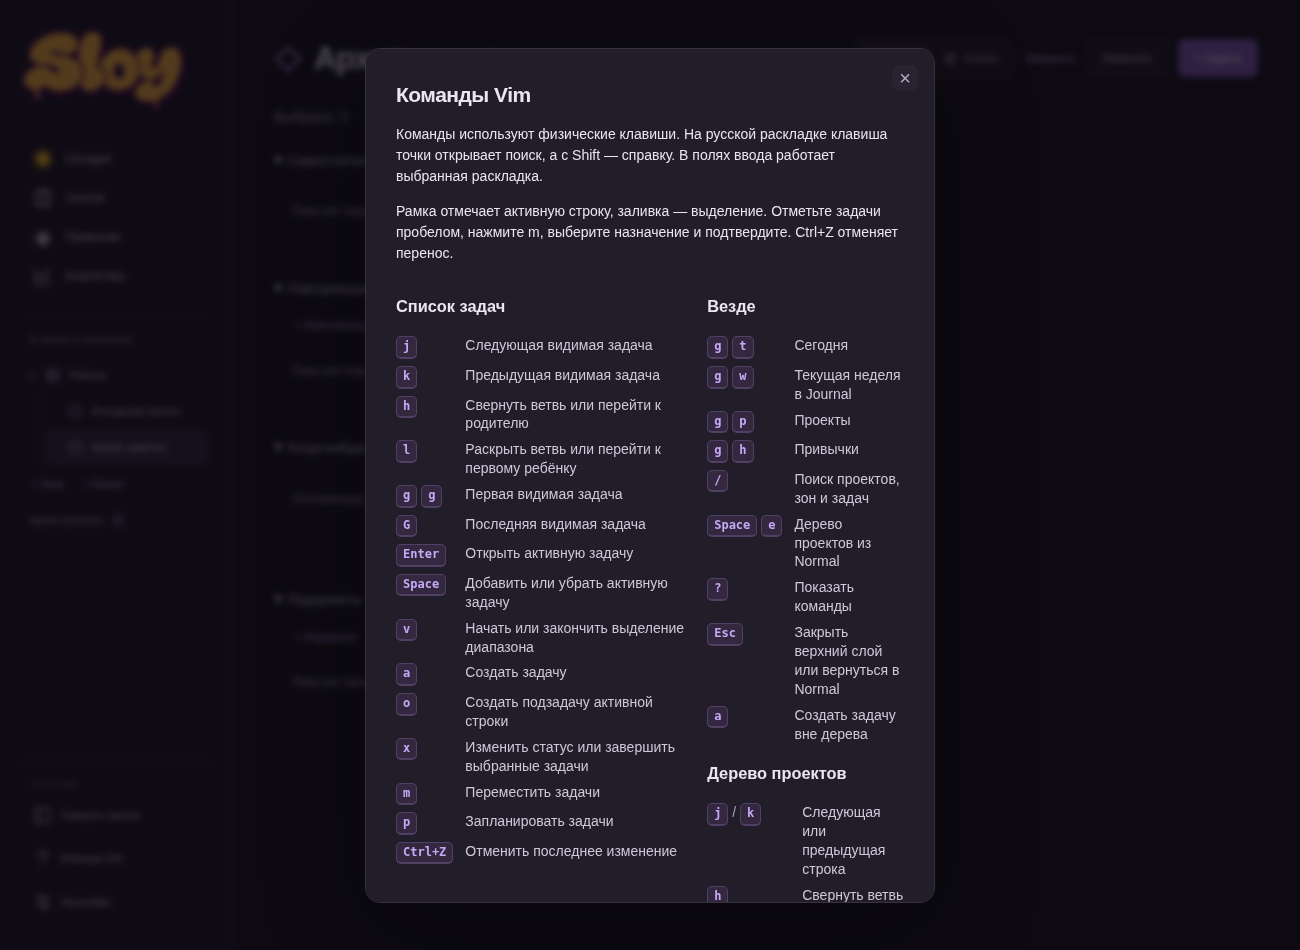
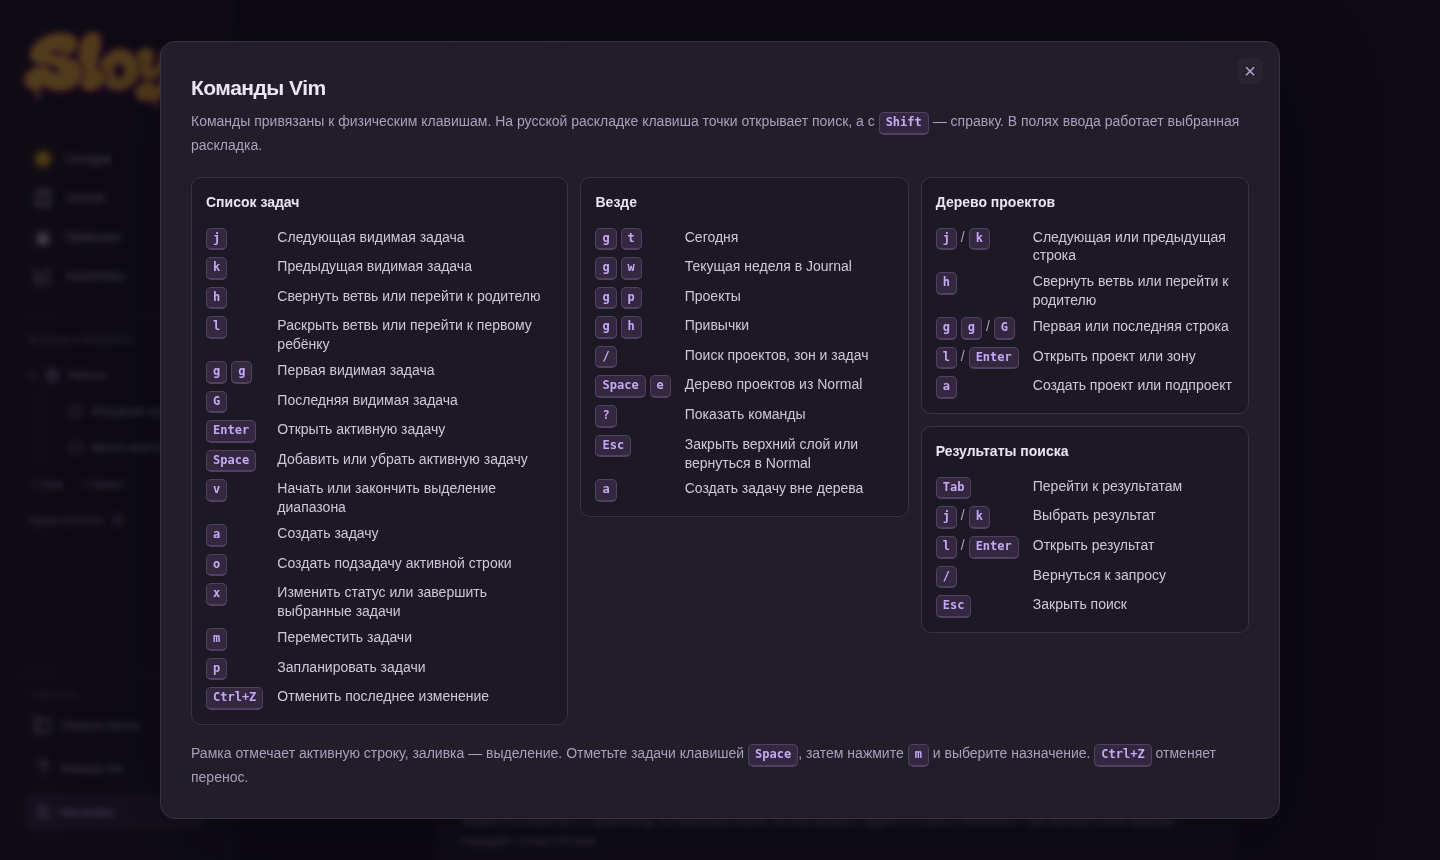
Widen Vim help and workspace search (#37)

diff --git a/dist/vim-navigation.js b/dist/vim-navigation.js
@@ -49,15 +49,14 @@ export function vimMenuKey(id){
 export function vimHelpHTML(){
  const keys=binding=>binding.split(' / ').map(sequence=>
   sequence.split(' ').map(key=>'<kbd>'+key+'</kbd>').join(' ')).join(' <span class="vim-key-separator">/</span> ');
- const section=(heading,commands)=>'<section><h3>'+heading+'</h3><dl class="vim-commands">'+
+ const section=(group,heading,commands)=>'<section class="vim-help-group vim-help-'+group+'"><h3>'+heading+'</h3><dl class="vim-commands">'+
   commands.map(([,key,label])=>'<dt>'+keys(key)+'</dt><dd>'+label+'</dd>').join('')+'</dl></section>';
- return '<div class="vim-help"><h2>Команды Vim</h2><p>Команды используют физические клавиши. На русской раскладке клавиша точки открывает поиск, а с Shift — справку. В полях ввода работает выбранная раскладка.</p>'+
-  '<p>Рамка отмечает активную строку, заливка — выделение. Отметьте задачи пробелом, нажмите m, выберите назначение и подтвердите. Ctrl+Z отменяет перенос.</p>'+
-  '<div class="vim-help-grid">'+section('Список задач',listCommands)+'<div>'+
-  section('Везде',[...destinations,['search','/','Поиск проектов, зон и задач'],['explorer','Space e','Дерево проектов из Normal'],['help','?','Показать команды'],['escape','Esc','Закрыть верхний слой или вернуться в Normal'],['add','a','Создать задачу вне дерева']])+
-  section('Дерево проектов',[['move','j / k','Следующая или предыдущая строка'],['branch','h','Свернуть ветвь или перейти к родителю'],['edges','g g / G','Первая или последняя строка'],['open','l / Enter','Открыть проект или зону'],['add','a','Создать проект или подпроект']])+
-  section('Результаты поиска',[['focus','Tab','Перейти к результатам'],['move','j / k','Выбрать результат'],['open','l / Enter','Открыть результат'],['edit','/','Вернуться к запросу'],['close','Esc','Закрыть поиск']])+'</div></div>'+
-  '<div class="modal-actions"><button type="button" class="primary-button" data-action="close-modal">Готово</button></div></div>';
+ return '<div class="vim-help"><h2>Команды Vim</h2><p class="vim-help-note">Команды привязаны к физическим клавишам. На русской раскладке клавиша точки открывает поиск, а с <kbd>Shift</kbd> — справку. В полях ввода работает выбранная раскладка.</p>'+
+  '<div class="vim-help-grid">'+section('tasks','Список задач',listCommands)+
+  section('global','Везде',[...destinations,['search','/','Поиск проектов, зон и задач'],['explorer','Space e','Дерево проектов из Normal'],['help','?','Показать команды'],['escape','Esc','Закрыть верхний слой или вернуться в Normal'],['add','a','Создать задачу вне дерева']])+
+  '<div class="vim-help-context">'+section('tree','Дерево проектов',[['move','j / k','Следующая или предыдущая строка'],['branch','h','Свернуть ветвь или перейти к родителю'],['edges','g g / G','Первая или последняя строка'],['open','l / Enter','Открыть проект или зону'],['add','a','Создать проект или подпроект']])+
+  section('search','Результаты поиска',[['focus','Tab','Перейти к результатам'],['move','j / k','Выбрать результат'],['open','l / Enter','Открыть результат'],['edit','/','Вернуться к запросу'],['close','Esc','Закрыть поиск']])+'</div></div>'+
+  '<p class="vim-help-note vim-help-example">Рамка отмечает активную строку, заливка — выделение. Отметьте задачи клавишей <kbd>Space</kbd>, затем нажмите <kbd>m</kbd> и выберите назначение. <kbd>Ctrl+Z</kbd> отменяет перенос.</p></div>';
 }
 
 export function vimKey(event,prefix=''){

diff --git a/dist/vim-navigation.css b/dist/vim-navigation.css
@@ -24,13 +24,13 @@
  pointer-events:none;font-size:.85rem;
 }
 .vim-commands {
- display:grid;grid-template-columns:max-content 1fr;gap:6px 12px;align-items:baseline;
- margin:10px 0 18px;
+ display:grid;grid-template-columns:max-content minmax(0,1fr);gap:6px 14px;align-items:baseline;
+ margin:0;
 }
 .vim-commands dd {
  margin:0;
 }
-.vim-commands kbd,.task-context-menu kbd {
+.task-context-menu kbd {
  padding:2px 5px;border:1px solid var(--line);border-radius:4px;
  background:var(--field);color:var(--accent-text);white-space:nowrap;
 }
@@ -54,14 +54,47 @@
 .vim-settings-actions input[role="switch"]:checked::before {
  left:19px;background:var(--button-text);
 }
+#modal:has(.vim-help) {
+ max-height:calc(100dvh - 32px);
+ max-width:1120px;
+}
+#modal:has(.workspace-search) {
+ max-width:900px;
+}
+.vim-help h2 {
+ margin:0 0 8px;
+}
+.vim-help .vim-help-note {
+ color:var(--muted);line-height:1.55;margin:0 0 20px;
+}
+.vim-help .vim-help-example {
+ margin:18px 0 0;
+}
 .vim-help-grid {
- display:grid;grid-template-columns:minmax(0,3fr) minmax(0,2fr);gap:16px;
+ display:grid;gap:12px;align-items:start;
+ grid-template-columns:minmax(0,1.15fr) repeat(2,minmax(0,1fr));
+ grid-template-areas:"tasks global context";
 }
-.vim-help-grid > :only-child {
- grid-column:1/-1;
+.vim-help-group {
+ min-width:0;padding:14px;border:1px solid var(--line);border-radius:10px;background:var(--field);
 }
-@media(max-width:560px) {
- .vim-help-grid {grid-template-columns:1fr;gap:0;}
+.vim-help-group h3 {
+ margin:0 0 14px;font-size:14px;color:var(--ink);
+}
+.vim-help-tasks {grid-area:tasks;}
+.vim-help-global {grid-area:global;}
+.vim-help-context {grid-area:context;display:grid;gap:12px;min-width:0;}
+@media(max-width:1000px) {
+ .vim-help-grid {
+  grid-template-columns:repeat(2,minmax(0,1fr));
+  grid-template-areas:"tasks global" "tasks context";
+ }
+}
+@media(max-width:670px) {
+ .vim-help-grid {
+  grid-template-columns:minmax(0,1fr);
+  grid-template-areas:"tasks" "global" "context";
+ }
 }
 .space-tree-title:focus-visible {
  outline:2px solid var(--focus);outline-offset:-2px;border-radius:6px;
@@ -89,6 +122,9 @@ main[tabindex="-1"]:focus,
 #workspace-search-results span,#workspace-search-results small,.workspace-search-keys {
  color:var(--muted);font-size:12px;
 }
+#workspace-search-results strong,#workspace-search-results small {
+ overflow-wrap:anywhere;
+}
 #workspace-search-results small {
  grid-column:1/-1;
 }
@@ -110,7 +146,7 @@ main[tabindex="-1"]:focus,
 .vim-commands dd {
  color:var(--text);line-height:1.35;
 }
-.vim-commands kbd,.workspace-search-keys kbd {
+.vim-help kbd,.workspace-search-keys kbd {
  display:inline-grid;place-items:center;min-width:1.65em;padding:2px 6px;
  border:1px solid var(--accent-border);border-bottom-width:2px;border-radius:5px;
  background:var(--accent-soft);color:var(--accent-text);font:600 12px/1.3 monospace;
